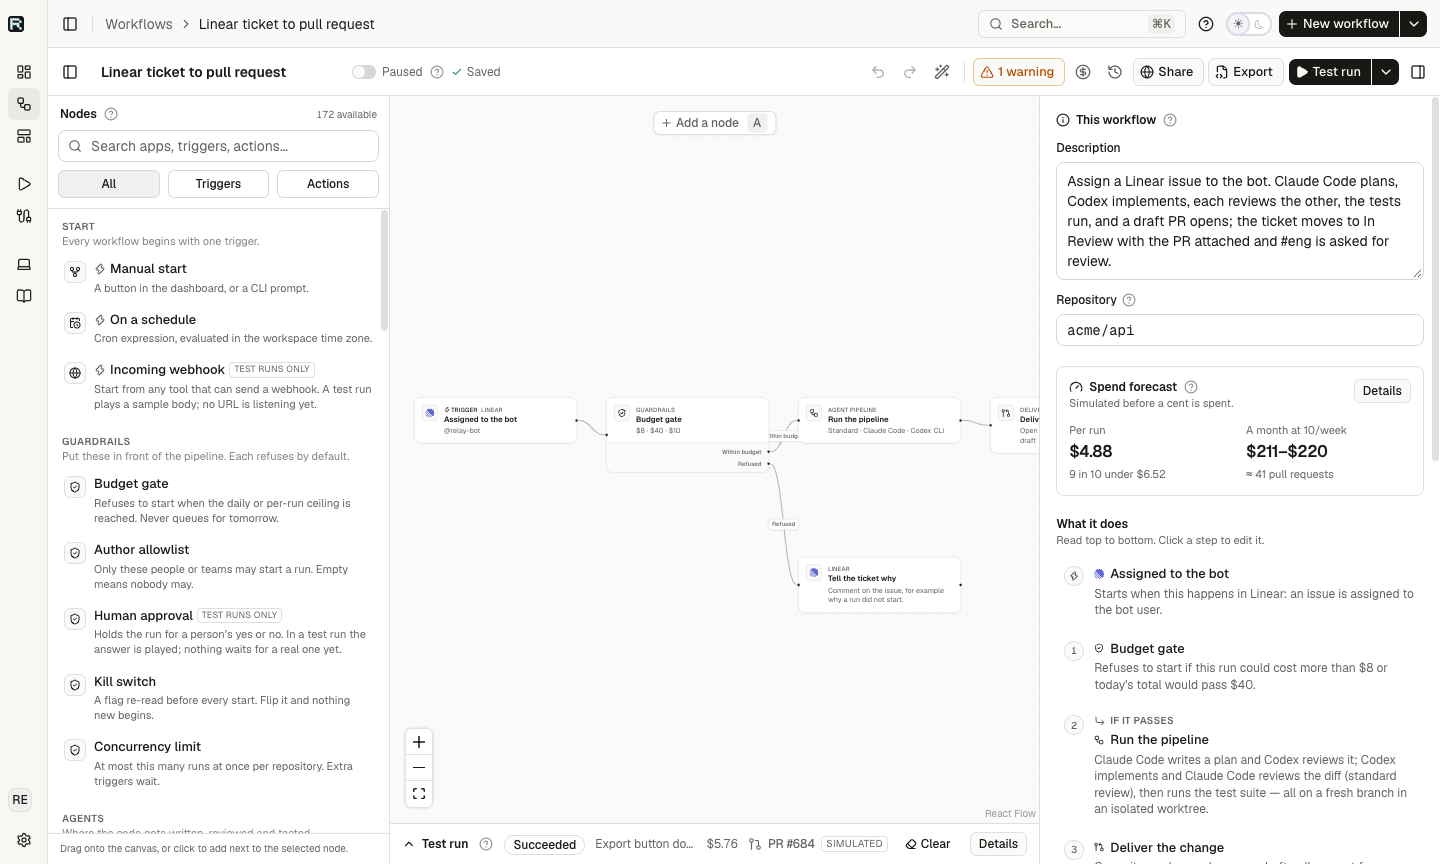
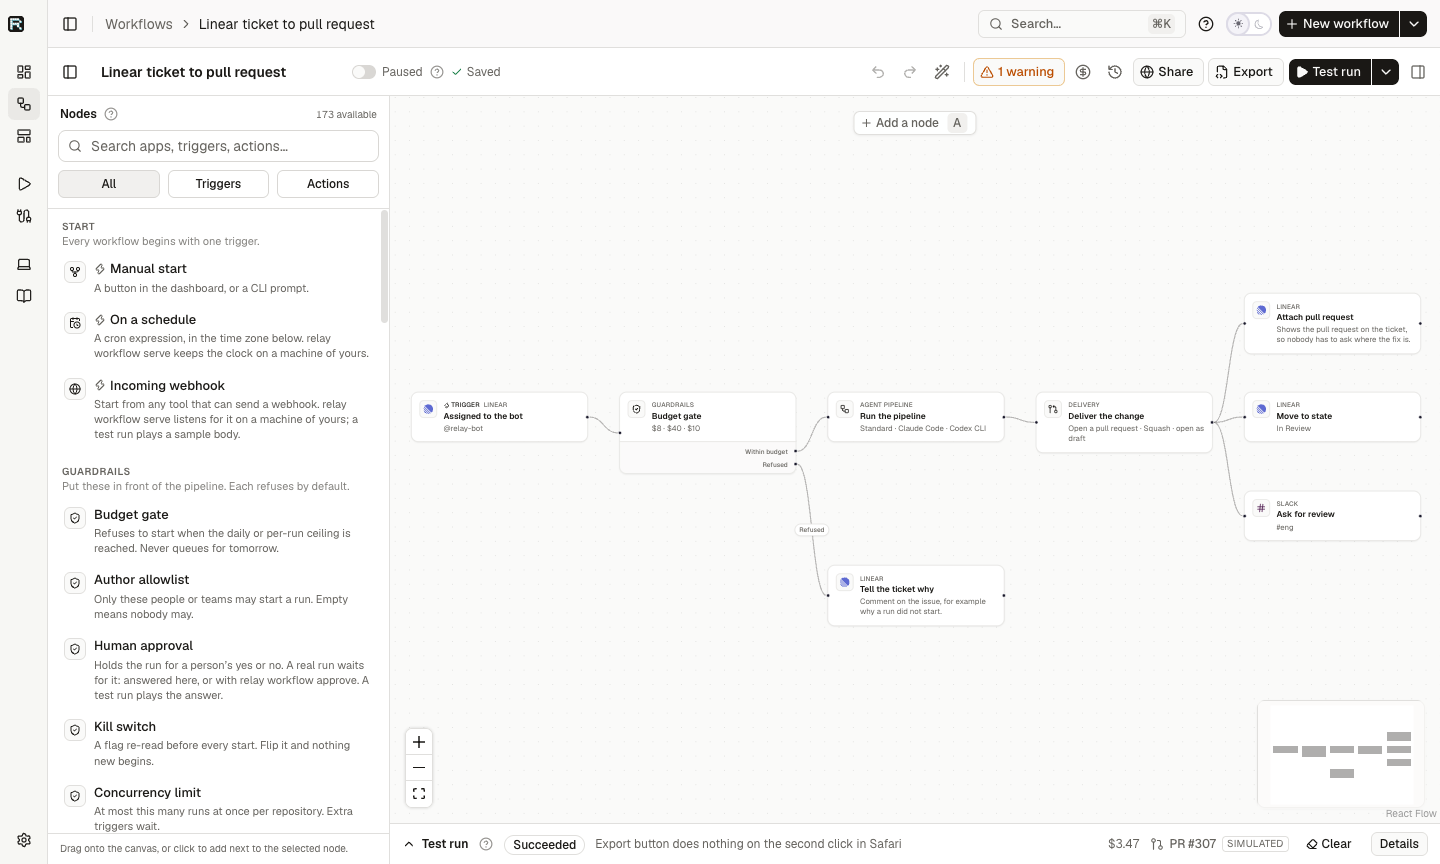
Fit a five-column workflow whole, and retake the README's studio screenshots
The fit's floor goes back down and its padding shrinks instead, so the
templates open whole and larger than before. The README's studio image
showed "test runs only" on the webhook trigger and the approval, which is
no longer true; a second image shows a step saying how a real run performs
it.

diff --git a/web/src/components/builder/canvas.tsx b/web/src/components/builder/canvas.tsx
@@ -25,9 +25,14 @@ import { DRAG_MIME } from './palette';
 import type { CanvasEdge, CanvasNode } from './types';
 
 /** The smallest a fit may make the graph: below this a node's text cannot be read, so the rest is reached by panning. */
-const FIT_MIN_ZOOM = 0.7;
-/** Room left round a fitted graph, as a share of the canvas. Small: every point of it is taken from the size of the nodes. */
-const FIT_PADDING = 0.06;
+const FIT_MIN_ZOOM = 0.62;
+/**
+ * Room left round a fitted graph, as a share of the canvas. Small: every point
+ * of it is taken from the size of the nodes, and a five-column workflow on a
+ * laptop only just fits whole as it is. Seeing the whole flow at once is worth
+ * more than a margin.
+ */
+const FIT_PADDING = 0.04;
 
 const NODE_TYPES = { wf: WorkflowNode };
 const EDGE_TYPES = { wf: WorkflowEdge };

diff --git a/README.md b/README.md
@@ -148,6 +148,8 @@ the studio uses.
 - **Your subscriptions, your runners.** No API keys to paste. Agents run on your
   computer or your own Actions minutes, where Relay never sees your code.
 
+![A Linear step selected in the builder: “Runs for real. Done through Linear’s API with a personal API key. Reads LINEAR_API_KEY from the environment the runner was started with.”](docs/images/real-step.png)
+
 | Describe it | Spend forecast |
 |---|---|
 | ![A sentence becoming a Sentry-to-pull-request workflow as it is typed](docs/images/describe.png) | ![The spend forecast: typical and 90th-percentile cost per run, a monthly projection and where the money goes](docs/images/forecast.png) |
